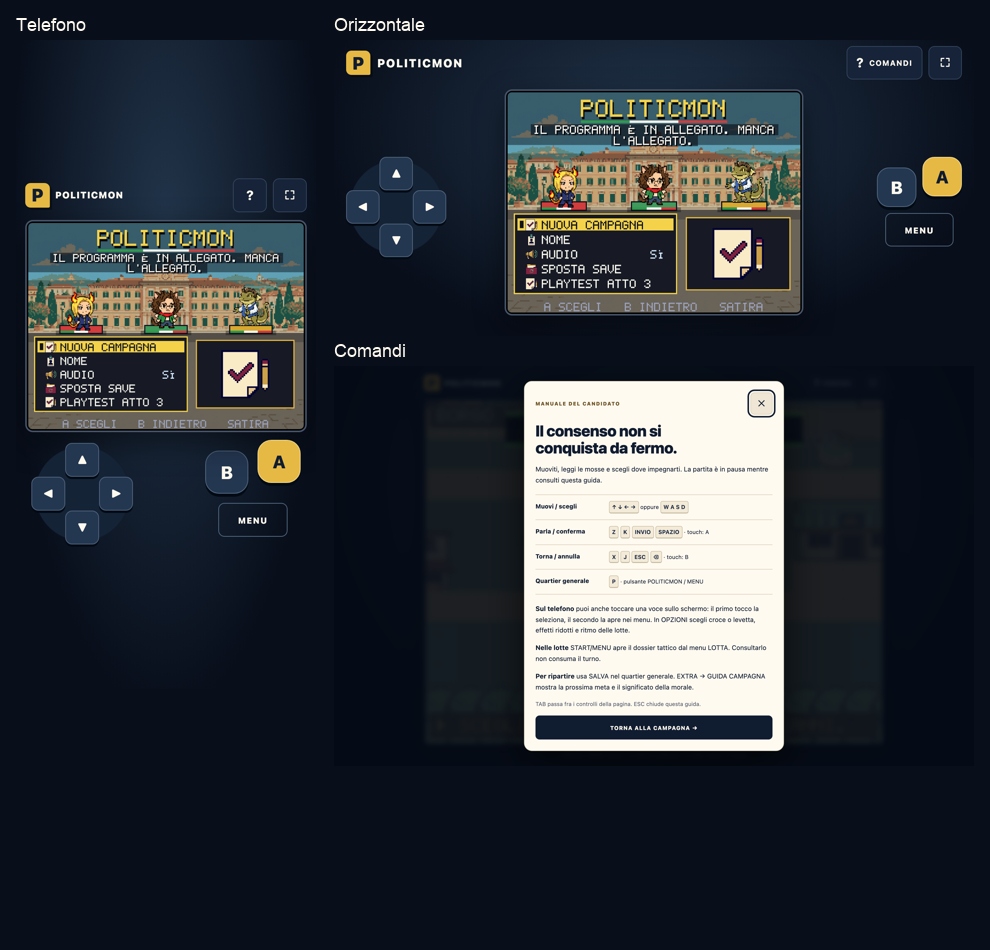
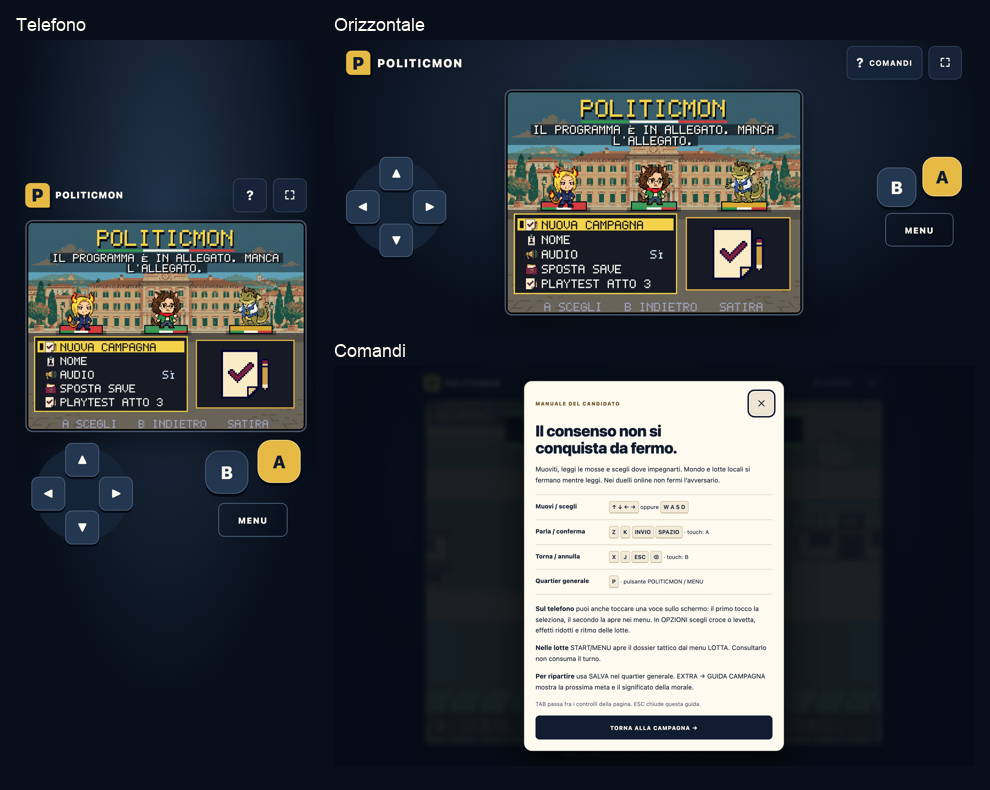
Clarify online pause limits and verify the public game shell

diff --git a/index.html b/index.html
@@ -80,7 +80,7 @@
     <dialog id="shell-guide" aria-labelledby="shell-guide-title">
       <div class="guide-heading"><span class="guide-eyebrow">MANUALE DEL CANDIDATO</span><button id="shell-guide-close" type="button" autofocus aria-label="Chiudi la guida">✕</button></div>
       <h1 id="shell-guide-title">Il consenso non si conquista da fermo.</h1>
-      <p>Muoviti, leggi le mosse e scegli dove impegnarti. La partita è in pausa mentre consulti questa guida.</p>
+      <p>Muoviti, leggi le mosse e scegli dove impegnarti. Mondo e lotte locali si fermano mentre leggi. Nei duelli online non fermi l’avversario.</p>
       <dl class="guide-controls">
         <div><dt>Muovi / scegli</dt><dd><kbd>↑ ↓ ← →</kbd> oppure <kbd>W A S D</kbd></dd></div>
         <div><dt>Parla / conferma</dt><dd><kbd>Z</kbd> <kbd>K</kbd> <kbd>INVIO</kbd> <kbd>SPAZIO</kbd> · touch: A</dd></div>

diff --git a/docs/INTERFACCIA-ESTERNA.md b/docs/INTERFACCIA-ESTERNA.md
@@ -28,7 +28,8 @@ menu, doppio tocco dei menu, dossier tattico e salvataggio. Mentre è aperta,
 il game loop continua a disegnare ma non aggiorna la scena o il tempo di
 partita. Le prove congelano esattamente lo stato sia nel mondo sia in una
 vera BattleScene. Non è una pausa dei messaggi ricevuti dalla rete: il round
-non modifica il protocollo multiplayer.
+non modifica il protocollo multiplayer. La guida distingue esplicitamente
+le lotte locali dai duelli online: consultarla non ferma l’avversario remoto.
 
 ESC o i due pulsanti chiudono la guida e restituiscono il focus al canvas.
 TAB e SHIFT+TAB restano nei due pulsanti della guida anche con le preferenze
@@ -68,6 +69,12 @@ La verifica della build locale passa su 420 checksum e presenza della nuova
 cornice. La PWA passa su Chromium/Pixel 7 e WebKit/iPhone 13 con 529 risorse;
 il reload completamente offline è provato soltanto su Chromium. Nessun PNG
 di gioco cambia: 528 file restano installati.
+
+Il round `b36ec49` è pubblicato: CI e tre deploy Vercel riusciti, 420 checksum
+e 529 risorse verificati sul dominio pubblico. `check:shell:release` prova
+anche la pagina di produzione in sei casi: telefono, orizzontale e computer
+su ciascun motore. Il titolo resta identico pixel per pixel durante la guida,
+TAB non esce dalla finestra modale e ESC restituisce il focus al canvas.
 
 Questo round non richiede raster o video aggiuntivi: **0 crediti**.
 Saldo Higgsfield letto **617,97**, spesa cumulativa del progetto **268**.
